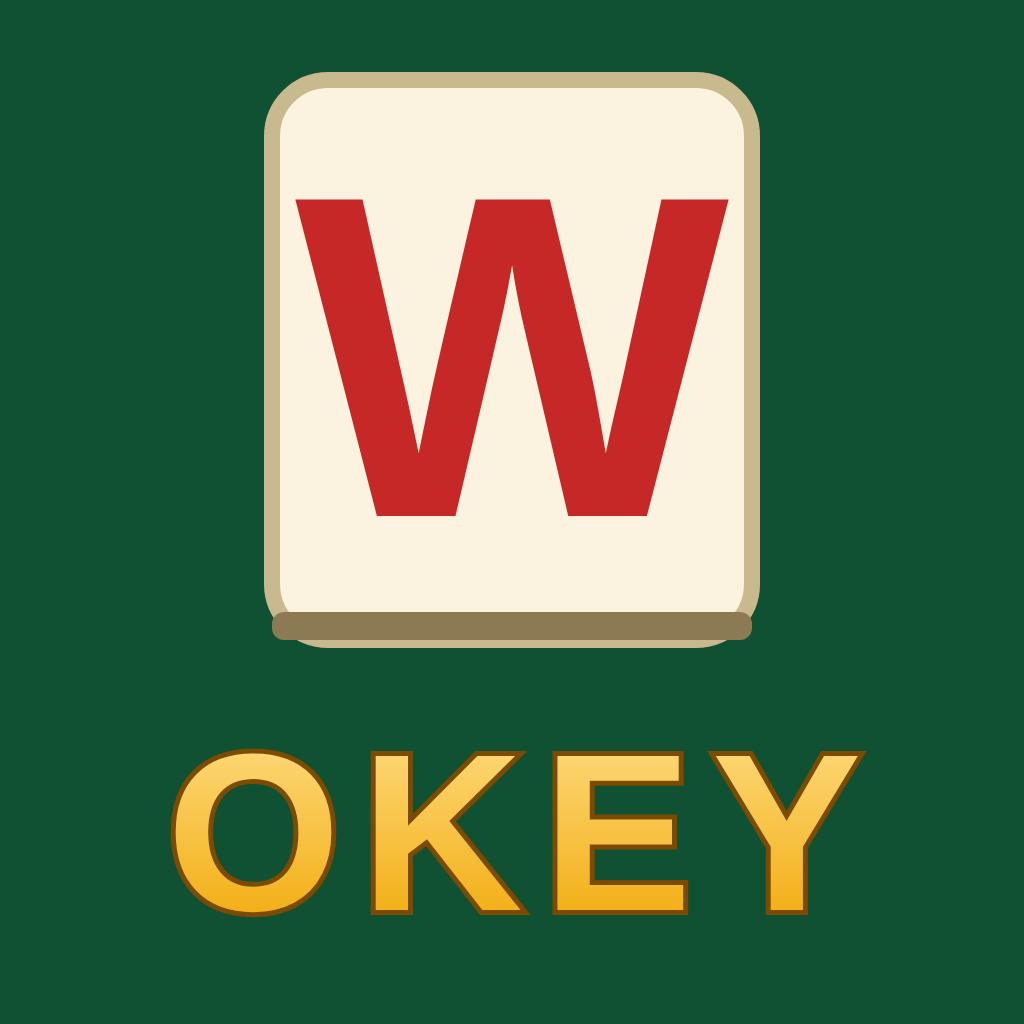
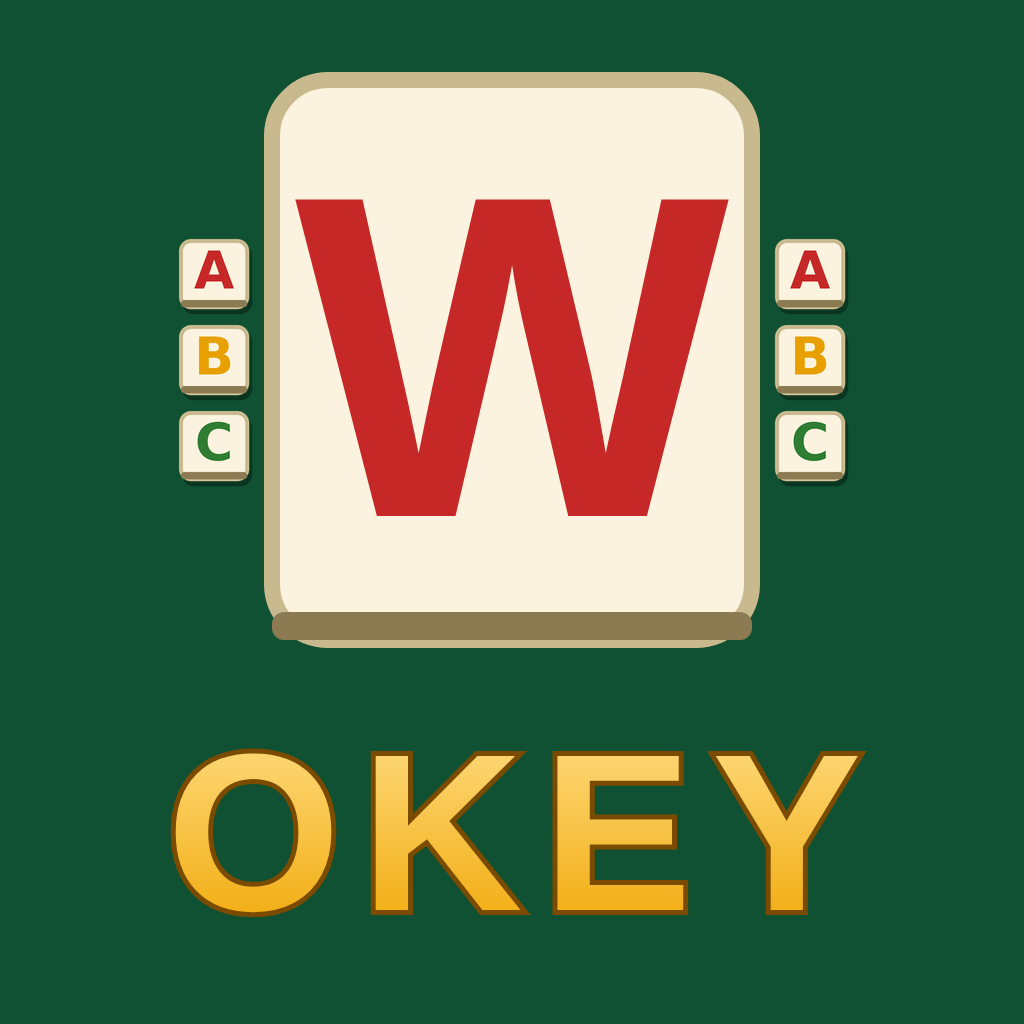
Uygulama simgesi: W taşının iki yanında yukarıdan aşağıya minik A-B-C taşları (A kırmızı, B sarı, C yeşil); Android, iOS ve web simgeleri
Claude-Session: https://claude.ai/code/session_012A7XBsJ3sN7yc214x1uWbX

Changed region(s): [[0.1562, 0.2188, 0.25, 0.5], [0.75, 0.2188, 0.8438, 0.5]]

diff --git a/tools/icon_abc.py b/tools/icon_abc.py
@@ -1,0 +1,46 @@
+"""Uygulama simgesine W taşının iki yanına minik A-B-C taşları ekler (yukarıdan aşağıya).
+
+A kırmızı, B sarı, C yeşil; harfler krem renkli minik okey taşlarının üstünde (yeşil zeminde
+de okunur). Taşlar Android uyarlanabilir simgesinin güvenli alanında kalır.
+Kullanım: python3 tools/icon_abc.py <kaynak.png> <çıktı.png>
+"""
+import sys
+from PIL import Image, ImageDraw, ImageFont
+
+FONT = "/usr/share/fonts/truetype/dejavu/DejaVuSans-Bold.ttf"
+LETTERS = [("A", (198, 40, 40)), ("B", (232, 160, 0)), ("C", (46, 125, 50))]
+
+
+def add_abc(img: Image.Image) -> Image.Image:
+    scale = 4  # yumuşak kenarlar için büyük çizip küçült
+    W, H = img.size
+    layer = Image.new("RGBA", (W * scale, H * scale), (0, 0, 0, 0))
+    d = ImageDraw.Draw(layer)
+    s = W / 1024 * scale
+    tile, gap, radius = 70 * s, 16 * s, 12 * s
+    font = ImageFont.truetype(FONT, int(52 * s))
+    total = 3 * tile + 2 * gap
+    top = 360 * s - total / 2
+    for cx in (214 * s, 810 * s):
+        for i, (ch, col) in enumerate(LETTERS):
+            x0, y0 = cx - tile / 2, top + i * (tile + gap)
+            # gölge, taş, alt kenar (büyük W taşıyla aynı üslup)
+            d.rounded_rectangle([x0 + 3 * s, y0 + 5 * s, x0 + tile + 3 * s, y0 + tile + 5 * s], radius, fill=(0, 0, 0, 90))
+            d.rounded_rectangle([x0, y0, x0 + tile, y0 + tile], radius, fill=(251, 243, 223, 255), outline=(201, 185, 143, 255), width=int(4 * s))
+            d.rounded_rectangle([x0 + 2 * s, y0 + tile - 9 * s, x0 + tile - 2 * s, y0 + tile - 2 * s], 4 * s, fill=(140, 123, 82, 255))
+            bb = d.textbbox((0, 0), ch, font=font)
+            tw, th = bb[2] - bb[0], bb[3] - bb[1]
+            d.text((cx - tw / 2 - bb[0], y0 + (tile - 9 * s - th) / 2 - bb[1]), ch, font=font, fill=col + (255,))
+    layer = layer.resize((W, H), Image.LANCZOS)
+    out = img.convert("RGBA")
+    out.alpha_composite(layer)
+    return out
+
+
+if __name__ == "__main__":
+    src, dst = sys.argv[1], sys.argv[2]
+    im = Image.open(src)
+    res = add_abc(im)
+    if im.mode == "RGB":
+        res = res.convert("RGB")
+    res.save(dst)
